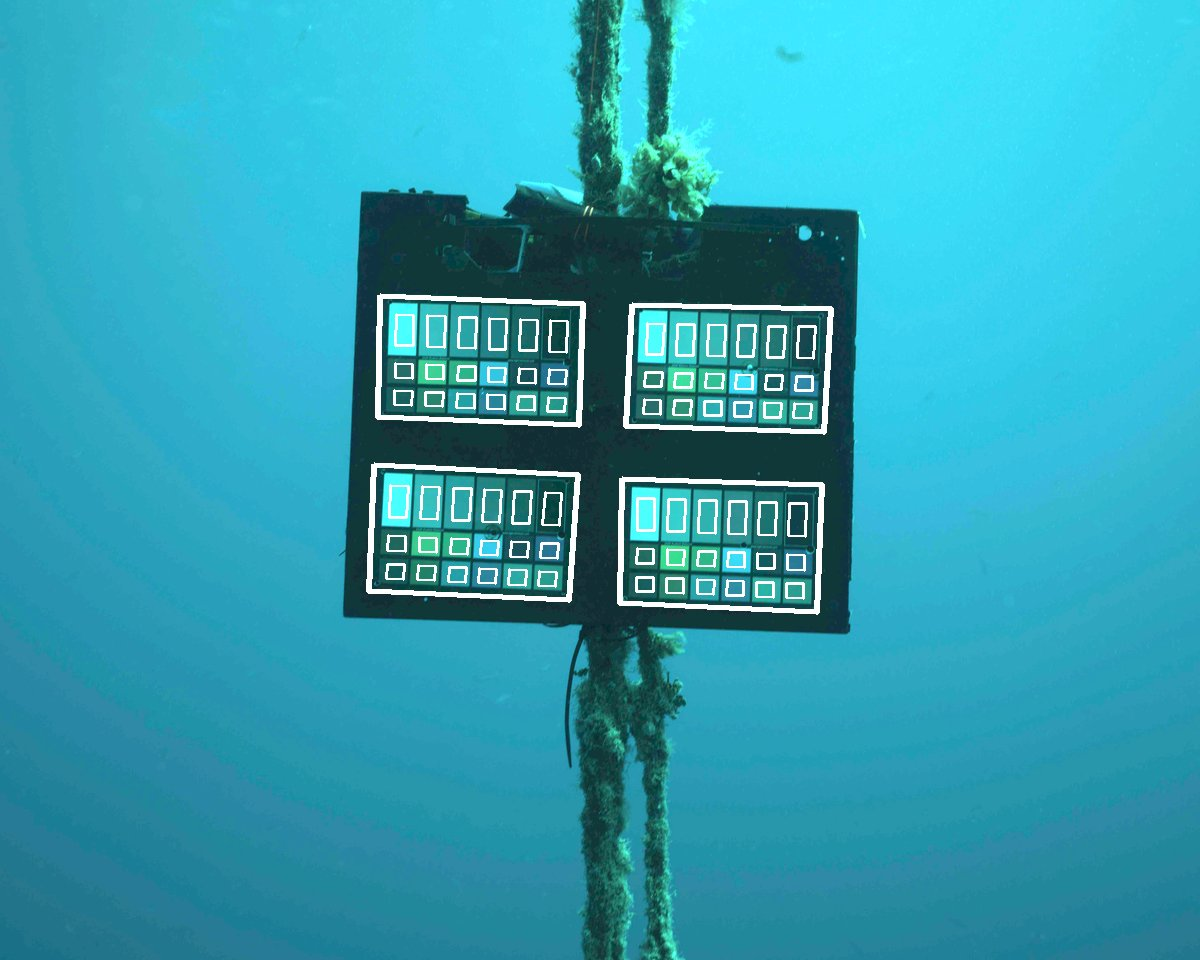
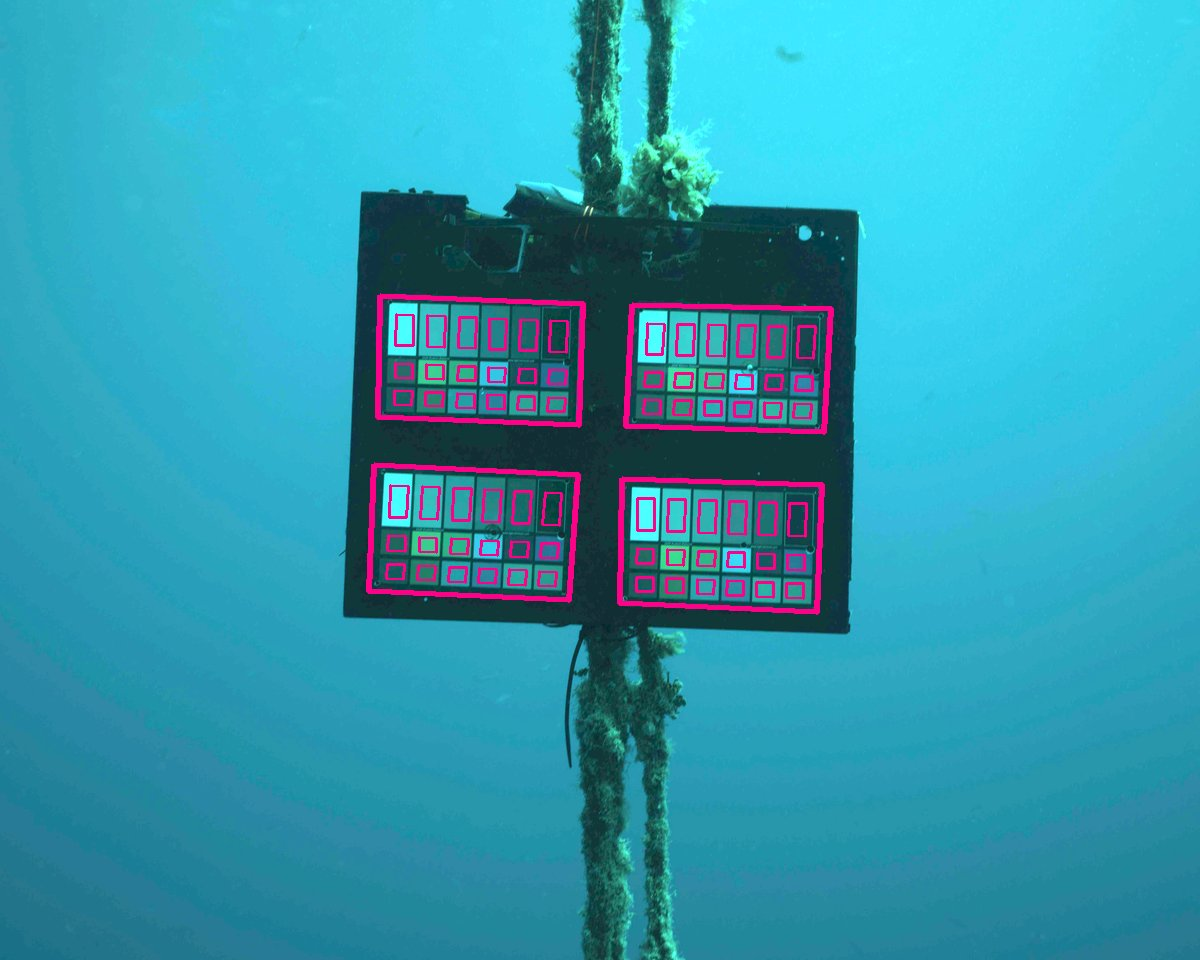
Publish v66: orbit scene underwater in the slider

Changed region(s): [[0.3083, 0.2812, 0.7092, 0.6562]]

diff --git a/index.html b/index.html
@@ -14,7 +14,8 @@ research setups.">
 <link rel="stylesheet" href="style.css">
 </head>
 <body>
-<!-- v59: NTNU and DTU logos removed (their brand rules). v58: codes start with Reed&ndash;Solomon (linear-code intro dropped), shorter notes; shorter duck caption. v57: Renfert logo removed. v56: logo order NTNU, DTU, COLOR Lab, Renfert, Hraun. v55: eider video v3 (stable tracks, flying raven). v54: logo row (COLOR Lab, Renfert, NTNU, DTU, Hraun á Skaga) below the sections. v53: no PhD, DTU in AG codes. v52: Hamming codes removed (RS and AG only). v51: codes: intro first again, each code set boxed with its generator matrix, Hamming code set. v50: canonical form. v49: codes intro text below its equation. v48: gap above Hamming heading. v47: error-correcting codes without parity-check matrices. v45: phone: photo and name left-aligned, gap below header. v44: duck video first in Computer vision, labels 34 px. v43: phone: title on one line, name below photo. v42: rows animate on phones with reduce-motion on (shorter). v41: eider video with raven, male/female labels, larger labels without score. v40: Popov pivots underlined again (v36). v39: round portrait again, Consulting capitalized. v38: boxed Popov pivots. v37: square portrait. v36: 3x3 Popov matrix, pivots underlined. v35: portrait in header. v27: black sky in D65. v26: v25 plus the new slider scene from v24. v25: spectral imaging section (interactive ColorChecker spectra). v23: algorithms (Popov form) above codes (linear, Hamming, RS, Hermitian). v22: ocean optics folded into computer vision as synthetic data, no equation. v21: Algorithms, Error-correcting codes. v20: Mitsuba 3-way slider from v16, renamed categories, agent tools, tighter spacing. v19: category labels only. v17: lead sentence, mathematical modeling. v15: no section label. v14: animated expand, smoother feel. v13: collapsible areas of work. v12: before/after slider on chart photo. v11: wider chart photo, white outlines. v10: trimmed to header and visuals; to be built up again. Equations are pre-rendered with KaTeX 0.16 from
+<!-- v66: orbit scene underwater in the slider. -->
+<!-- v65: leaf scan moved to its own category, Tactile imaging. v64: leaf-scan figure full width (includes uncommitted v63 pink chart outlines). v62: seagrass trichome detection in leaf scans. v61: chart caption simpler (no drag hint, no Haifa). v60: duck caption names Hraun á Skaga, no sex labels. v59: NTNU and DTU logos removed (their brand rules). v58: codes start with Reed&ndash;Solomon (linear-code intro dropped), shorter notes; shorter duck caption. v57: Renfert logo removed. v56: logo order NTNU, DTU, COLOR Lab, Renfert, Hraun. v55: eider video v3 (stable tracks, flying raven). v54: logo row (COLOR Lab, Renfert, NTNU, DTU, Hraun á Skaga) below the sections. v53: no PhD, DTU in AG codes. v52: Hamming codes removed (RS and AG only). v51: codes: intro first again, each code set boxed with its generator matrix, Hamming code set. v50: canonical form. v49: codes intro text below its equation. v48: gap above Hamming heading. v47: error-correcting codes without parity-check matrices. v45: phone: photo and name left-aligned, gap below header. v44: duck video first in Computer vision, labels 34 px. v43: phone: title on one line, name below photo. v42: rows animate on phones with reduce-motion on (shorter). v41: eider video with raven, male/female labels, larger labels without score. v40: Popov pivots underlined again (v36). v39: round portrait again, Consulting capitalized. v38: boxed Popov pivots. v37: square portrait. v36: 3x3 Popov matrix, pivots underlined. v35: portrait in header. v27: black sky in D65. v26: v25 plus the new slider scene from v24. v25: spectral imaging section (interactive ColorChecker spectra). v23: algorithms (Popov form) above codes (linear, Hamming, RS, Hermitian). v22: ocean optics folded into computer vision as synthetic data, no equation. v21: Algorithms, Error-correcting codes. v20: Mitsuba 3-way slider from v16, renamed categories, agent tools, tighter spacing. v19: category labels only. v17: lead sentence, mathematical modeling. v15: no section label. v14: animated expand, smoother feel. v13: collapsible areas of work. v12: before/after slider on chart photo. v11: wider chart photo, white outlines. v10: trimmed to header and visuals; to be built up again. Equations are pre-rendered with KaTeX 0.16 from
      the paper's LaTeX (local CSS and fonts, no CDN). Confidential client
      work stays unnamed (see README). -->
 <a class="skip" href="#main">Skip to content</a>
@@ -50,20 +51,20 @@ research setups.">
   <figure class="wide vid">
   <video src="assets/ducks.mp4?v=55" poster="assets/ducks-poster.jpg?v=55" width="1280" height="720" muted loop playsinline controls preload="metadata" aria-label="Video of a nesting colony of eider ducks on a grassy slope; each bird is boxed and labelled by the detector and followed from frame to frame; a raven sits at the top right, then takes off"></video>
   </figure>
-  <p class="note">Eider ducks detected and tracked in a nesting colony, labelled by sex and behavior. A raven takes off at the top right.</p>
+  <p class="note">Eider ducks detected and tracked in a nesting colony at <a href="https://hraunaskaga.com/">Hraun á Skaga</a> in northern Iceland.</p>
   <h3 class="sub3">Detection in field photos</h3>
-  <figure class="wide compare" aria-label="Underwater photo; drag to compare with and without the detected charts">
+  <figure class="wide compare" aria-label="Underwater photo; slider compares it with and without the detected charts">
   <img src="assets/chart-plain.jpg?v=12" width="1200" height="960" alt="An underwater photo of a frame holding four color charts">
-  <div class="over"><img src="assets/chart-detect.jpg?v=12" width="1200" height="960" alt="The same photo with each chart and each color patch outlined in white, as found by the detector"></div>
+  <div class="over"><img src="assets/chart-detect.jpg?v=63" width="1200" height="960" alt="The same photo with each chart and each color patch outlined in pink, as found by the detector"></div>
   <span class="handle" aria-hidden="true"></span>
   <input type="range" min="0" max="100" value="50" aria-label="Compare with and without detections">
  </figure>
-  <p class="note">Drag to compare. Charts and patches found by a keypoint detector, University of Haifa. Camera spectral sensitivity: ICCP 2023, <a href="https://arxiv.org/abs/2304.11549">arXiv</a>.</p>
+  <p class="note">Color charts detected in an underwater photo. Object detection is hard underwater, because water shifts and washes out colors with distance.</p>
   <h3 class="sub3">Synthetic data</h3>
   <figure class="tri" role="group" aria-label="Rendered scene with two draggable dividers: left underwater, middle inherent radiance, right in D65 daylight">
-   <img class="l2" src="assets/tri-d65.jpg?v=27" width="1200" height="800" loading="lazy" alt="In D65 daylight: two color charts and a field of painted cubes, spheres, cylinders, cones and pyramids on sand, in their true colors in air">
-   <img class="l1" src="assets/tri-truth.jpg?v=24" width="1200" height="800" loading="lazy" alt="Inherent radiance: the same scene in the same underwater light, without water between the objects and the camera">
-   <img class="l0" src="assets/tri-underwater.jpg?v=24" width="1200" height="800" loading="lazy" alt="Underwater: a Mitsuba rendering of two ColorCheckers and dozens of painted cubes, spheres, cylinders, cones and pyramids on sand, seen through blue-green coastal water; far objects fade into the haze">
+   <img class="l2" src="assets/tri-d65.jpg?v=66" width="1200" height="800" loading="lazy" alt="In D65 daylight: a grey plinth with a ColorChecker on each face among painted cubes, spheres and cylinders on sand, in their true colors in air">
+   <img class="l1" src="assets/tri-truth.jpg?v=66" width="1200" height="800" loading="lazy" alt="Inherent radiance: the same plinth, charts and shapes in the same underwater light, without water between the objects and the camera">
+   <img class="l0" src="assets/tri-underwater.jpg?v=66" width="1200" height="800" loading="lazy" alt="Underwater: a Mitsuba rendering of a grey plinth with a ColorChecker on each face among painted cubes, spheres and cylinders on sand, seen through turbid green coastal water; far objects fade into the haze">
    <span class="lab lab0">Underwater</span><span class="lab lab1">Inherent radiance</span><span class="lab lab2">D65 daylight</span>
    <button type="button" class="div div0" role="slider" aria-label="Divider between underwater and inherent radiance" aria-valuemin="0" aria-valuemax="100"></button>
    <button type="button" class="div div1" role="slider" aria-label="Divider between inherent radiance and D65 daylight" aria-valuemin="0" aria-valuemax="100"></button>
@@ -90,6 +91,15 @@ research setups.">
    </div>
   </div>
   <p class="note">The 24 ColorChecker patches from their measured reflectance spectra (400&ndash;700 nm, 10 nm bands). Pick a patch to see its spectrum; move the slider to view the chart in a single band.</p>
+  </div>
+ </details>
+ <details class="cat">
+  <summary><span class="t">Tactile imaging</span></summary>
+  <div class="body">
+  <figure class="wide" style="margin:0">
+  <img src="assets/seagrass-trichomes.jpg?v=62" width="1200" height="675" loading="lazy" alt="Height-shaded close-up of a seagrass leaf surface near its edge, covered in small bumps; each detected trichome is circled in pink">
+  </figure>
+  <p class="note">Trichomes (tiny hairs) detected on a seagrass leaf in a tactile GelSight scan.</p>
   </div>
  </details>
 
